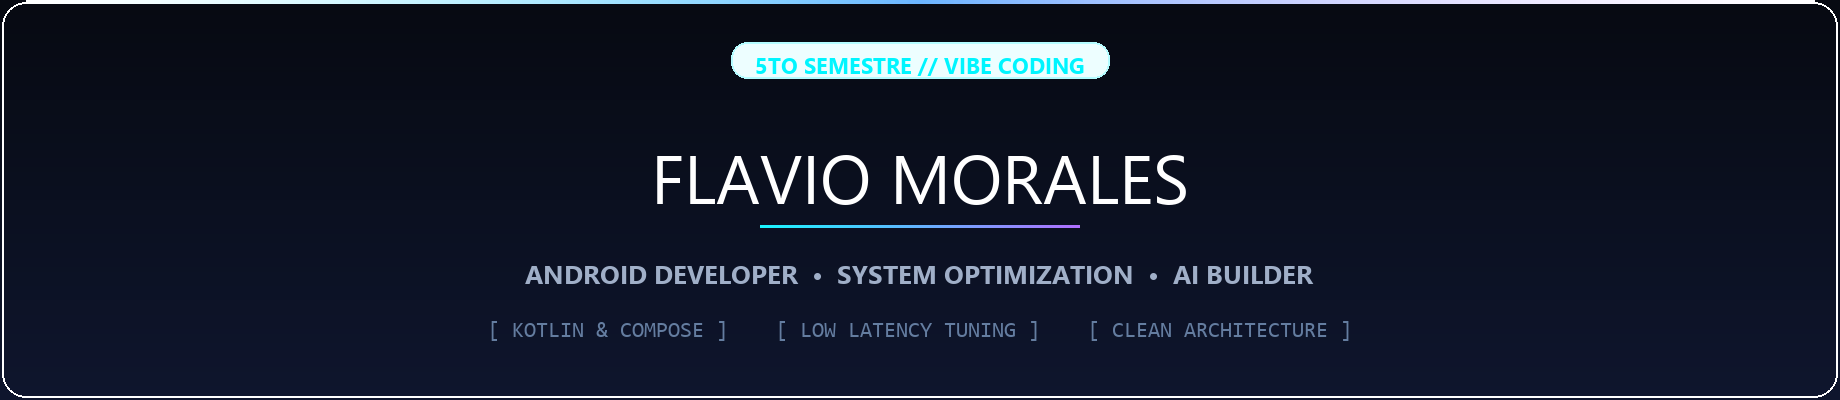
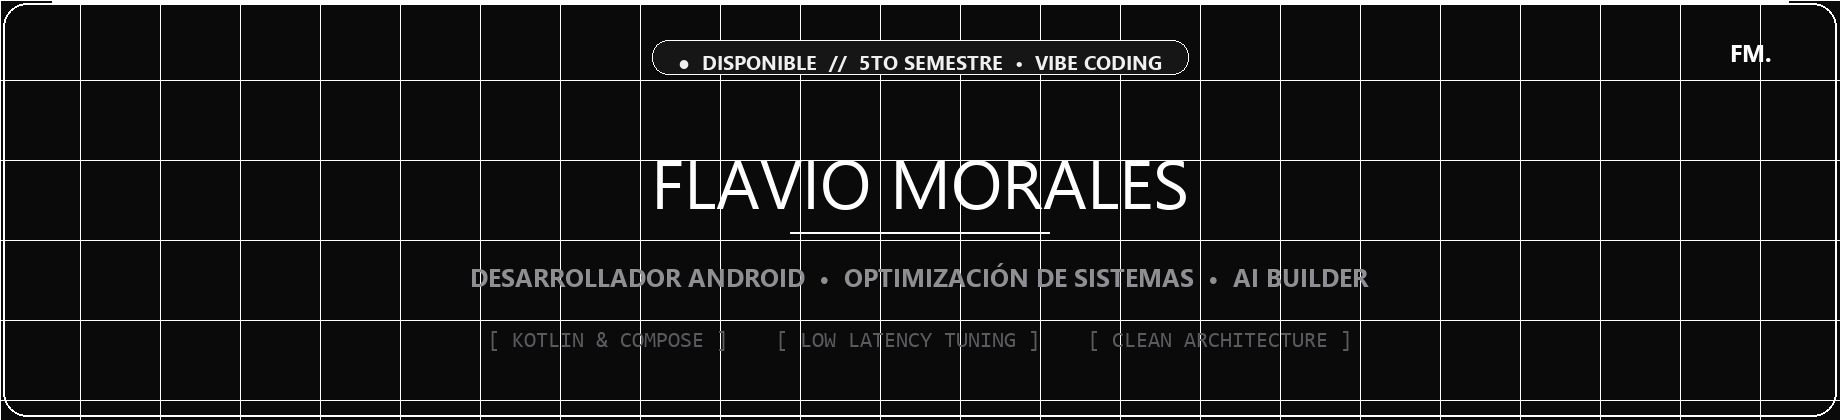
style: deploy luxury monochrome portfolio-aligned header and stats cards

diff --git a/README.md b/README.md
@@ -1,7 +1,7 @@
 <div align="center">
 
-<!-- BANNER HD MONOCROMÁTICO PREMIUM (ESTILO PORTAFOLIO OFICIAL) -->
-<img src="https://raw.githubusercontent.com/Josue2004exe/Josue2004exe/main/assets/header_monochrome.png" alt="Flavio Morales Banner" width="100%"/>
+<!-- BANNER HD MONOCROMÁTICO PREMIUM (ESTILO PORTAFOLIO OFICIAL #0A0A0A) -->
+<img src="https://raw.githubusercontent.com/josue2004exe/josue2004exe/main/assets/header_monochrome.png" alt="Flavio Morales Banner" width="100%"/>
 
 <br/><br/>
 
@@ -37,8 +37,8 @@ Me enfoco en construir soluciones que combinen velocidad de desarrollo, arquitec
 <!-- ICONOS VISUALES MODERNOS EN ALTA DEFINICIÓN -->
 <a href="https://github.com/Josue2004exe">
   <img src="https://skillicons.dev/icons?i=kotlin,androidstudio,python,js,html,css" height="48" alt="Languages & Mobile" />
-  <img src="https://raw.githubusercontent.com/Josue2004exe/Josue2004exe/main/assets/antigravity_official.png" height="48" alt="Antigravity IDE" title="Antigravity IDE" style="vertical-align: top; margin: 0 2px;" />
-  <img src="https://raw.githubusercontent.com/Josue2004exe/Josue2004exe/main/assets/sqlserver.png" height="48" alt="SQL Server" title="Microsoft SQL Server" style="vertical-align: top; margin: 0 2px;" />
+  <img src="https://raw.githubusercontent.com/josue2004exe/josue2004exe/main/assets/antigravity_official.png" height="48" alt="Antigravity IDE" title="Antigravity IDE" style="vertical-align: top; margin: 0 2px;" />
+  <img src="https://raw.githubusercontent.com/josue2004exe/josue2004exe/main/assets/sqlserver.png" height="48" alt="SQL Server" title="Microsoft SQL Server" style="vertical-align: top; margin: 0 2px;" />
   <img src="https://skillicons.dev/icons?i=git,github,windows" height="48" alt="Tools & OS" />
 </a>
 
